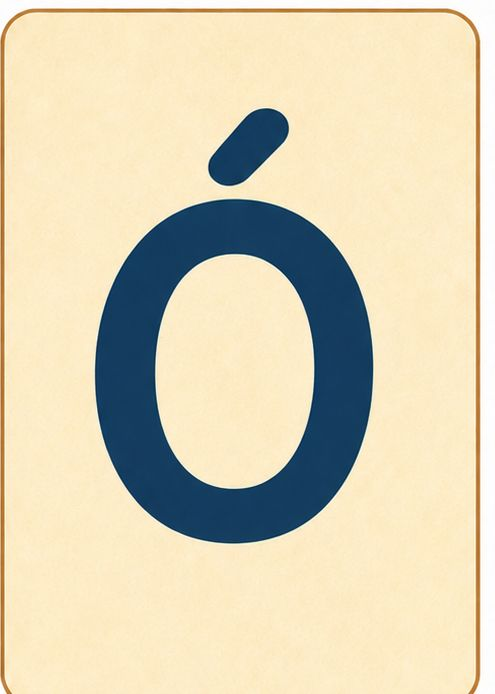
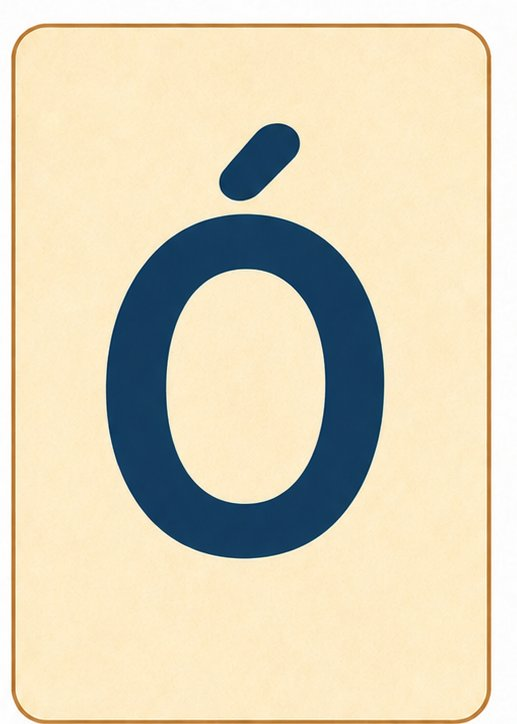
Add files via upload

diff --git a/src/roza-mode/slowo/WordArrange.tsx b/src/roza-mode/slowo/WordArrange.tsx
@@ -171,16 +171,13 @@ export default function WordArrange() {
         </div>
       ) : (
         <div className="flex flex-1 flex-col items-center justify-center gap-10 [@media(orientation:landscape)]:flex-row [@media(orientation:landscape)]:items-center [@media(orientation:landscape)]:gap-14">
-          {/* big reference: character + word */}
-          <div className="flex flex-row items-center gap-4 [@media(orientation:landscape)]:flex-col [@media(orientation:landscape)]:gap-6">
+          {/* big reference: full character card */}
+          <div className="flex items-center justify-center">
             <img
-              src={getAsset(word.characterAsset).src}
-              alt=""
-              className="h-32 w-32 rounded-[2rem] object-cover shadow-soft [@media(orientation:landscape)]:h-64 [@media(orientation:landscape)]:w-64"
+              src={getAsset(word.fullCardAsset).src}
+              alt={word.label}
+              className="h-56 w-auto rounded-[1.75rem] object-contain shadow-soft [@media(orientation:landscape)]:h-[26rem]"
             />
-            <span className="text-4xl font-extrabold tracking-widest text-navy [@media(orientation:landscape)]:text-5xl">
-              {word.label}
-            </span>
           </div>
 
           <div className="flex flex-col items-center gap-10">

diff --git a/src/roza-mode/slowo/words.ts b/src/roza-mode/slowo/words.ts
@@ -5,6 +5,7 @@ export interface WordDef {
   label: string
   letters: string[]
   characterAsset: AssetId
+  fullCardAsset: AssetId
   letterAsset: Record<string, AssetId>
   bg: string
 }
@@ -15,6 +16,7 @@ export const WORDS: WordDef[] = [
     label: 'MAMA',
     letters: ['M', 'A', 'M', 'A'],
     characterAsset: 'mama-face',
+    fullCardAsset: 'mama',
     letterAsset: { M: 'letter-M', A: 'letter-A' },
     bg: 'bg-dusty/30'
   },
@@ -23,6 +25,7 @@ export const WORDS: WordDef[] = [
     label: 'TATA',
     letters: ['T', 'A', 'T', 'A'],
     characterAsset: 'tata-face',
+    fullCardAsset: 'tata',
     letterAsset: { T: 'letter-T', A: 'letter-A' },
     bg: 'bg-honey/30'
   },
@@ -31,6 +34,7 @@ export const WORDS: WordDef[] = [
     label: 'RÓŻA',
     letters: ['R', 'Ó', 'Ż', 'A'],
     characterAsset: 'roza-face',
+    fullCardAsset: 'roza',
     letterAsset: { R: 'letter-R', Ó: 'letter-O-acute', Ż: 'letter-Z-dot', A: 'letter-A' },
     bg: 'bg-coral/30'
   }
